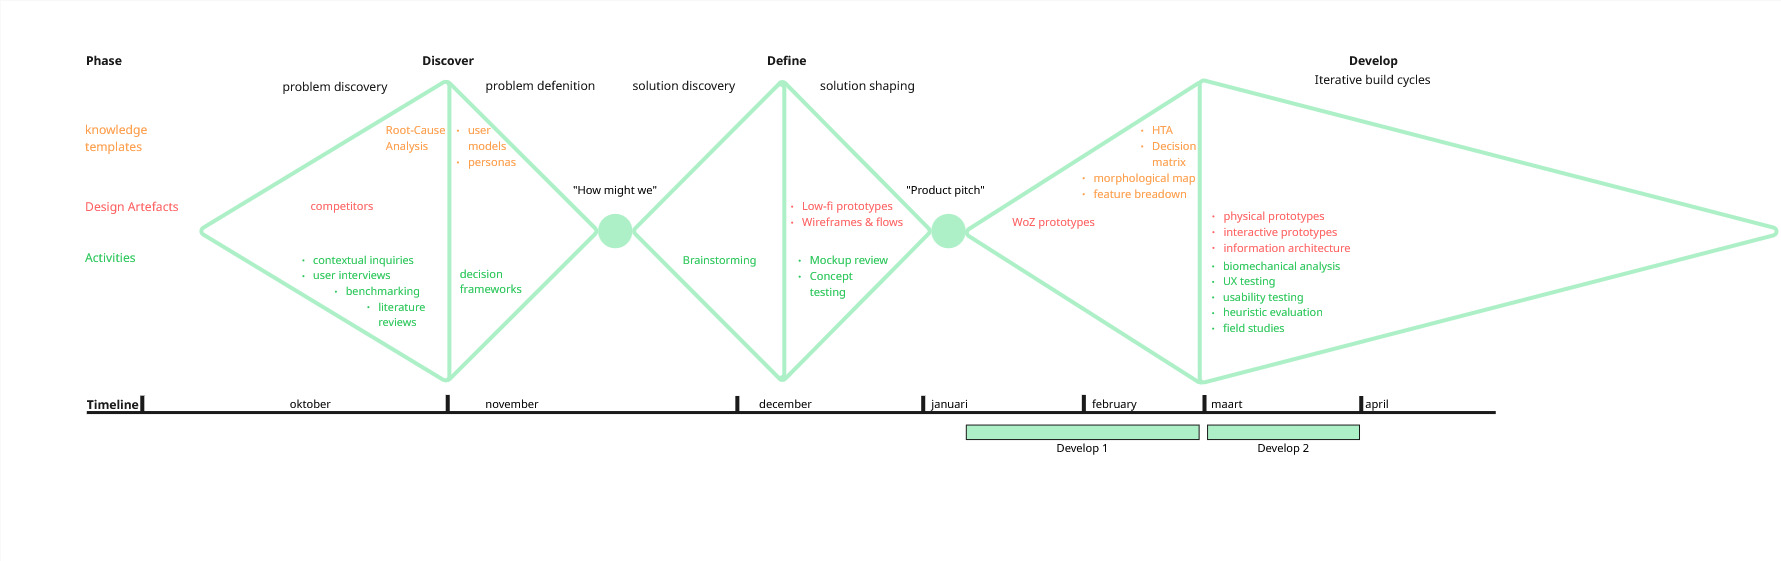
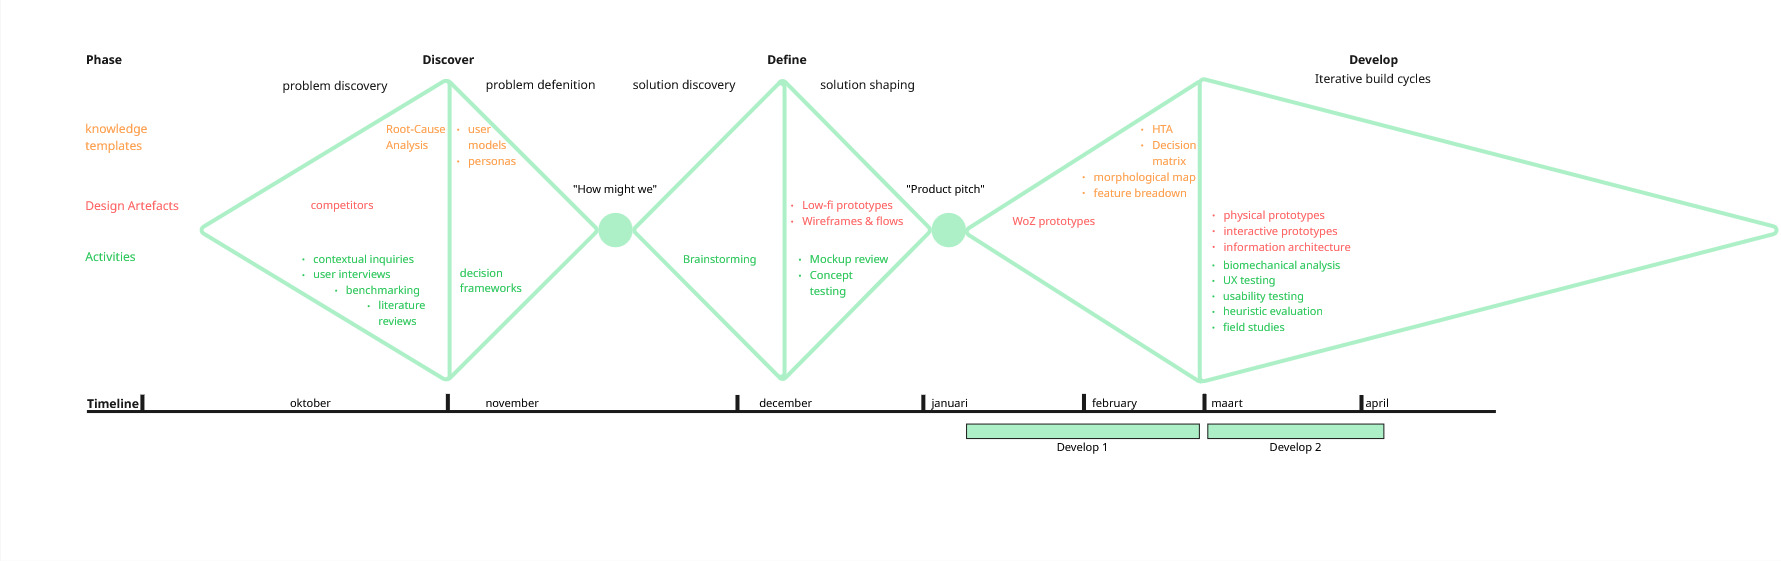
aanpassen afbeelding methodolie en tekst

diff --git a/docs/methodologie.md b/docs/methodologie.md
@@ -6,7 +6,7 @@
 Voor het onwerp process werd gebruik gemaakt van het triple diamond ontwerpmodel. Dit model bestaat uit 4 fasen, namelijk: discover, define, develop en deliver.  
 In het eerste semester werden de discover en define doorlopen.
 
-De eerste wave van de develop fase werd in de eerste maand van het tweede semester doorlopen. De tweede wave verliep doorheen het einde van maart en de hele maand april.
+De eerste wave van de develop fase werd in de eerste maand van het tweede semester doorlopen. De tweede wave verliep doorheen de maand maart en begin april.
 
 <ins>**Discover fase**</ins>  
 De discoveryfase richtte zich op het begrijpen van waarom huishoudens, ondanks een duidelijke bereidheid om energie te besparen, moeite hebben om dit gedrag structureel vol te houden. De focus lag op dagelijkse routines, perceptie en gebruikservaringen in plaats van op technische optimalisatie. Het doel was de kloof bloot te leggen tussen intentie en daadwerkelijk gedrag, en deze inzichten te vertalen naar onderbouwde designbeslissingen.
